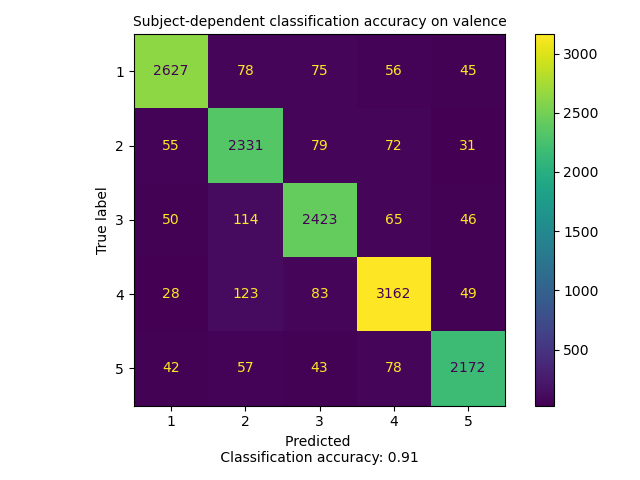
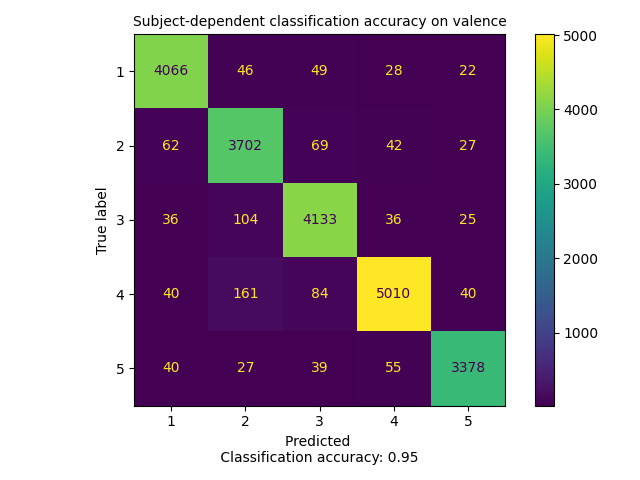
adjustments

diff --git a/preprocess/preprocess_DREAMER.py b/preprocess/preprocess_DREAMER.py
@@ -8,7 +8,7 @@ from pathlib import Path
 
 
 class DREAMERDataset(Dataset):
-    def __init__(self, path, emotion, subjects=None, sessions=None, samples=128, start=1, lowcut=0.3, highcut=None, order=3, save=False):
+    def __init__(self, path, emotion, subjects=None, sessions=None, samples=128, start=1, lowcut=0.3, highcut=None, order=3, type="butter", save=False):
         data_path = path + 'data.pt'
         if os.path.exists(data_path):
             print("Loading dataset from file.")
@@ -17,10 +17,10 @@ class DREAMERDataset(Dataset):
             # self.class_weights = torch.load(path + 'class_weights.pt')
         else:
             print("Building dataset.")
-            self._build(path, emotion, subjects, sessions, samples, start, lowcut, highcut, order, save)
+            self._build(path, emotion, subjects, sessions, samples, start, lowcut, highcut, order, type, save)
 
 
-    def _build(self, path, emotion, subjects=None, sessions=None, samples=128, start=1, lowcut=0.3, highcut=None, order=3, save=False):
+    def _build(self, path, emotion, subjects=None, sessions=None, samples=128, start=1, lowcut=0.3, highcut=None, order=3, type="butter", save=False):
         wdir = Path(__file__).resolve().parent.parent.parent
         data_path = str(wdir) + '/data/DREAMER/'
         mat = scipy.io.loadmat(data_path + 'DREAMER.mat')
@@ -42,13 +42,13 @@ class DREAMERDataset(Dataset):
                         print("... and all sessions mixed.")
                     for j in range(n_videos):
                         stimuli_eeg_j = stimuli_eeg[j, 0]
+                        baseline_eeg_j = baseline_eeg[j, 0]
                         stimuli_eeg_j = mne.filter.filter_data(stimuli_eeg_j.T, eeg_sr, lowcut, highcut, 
                                             method='iir', 
-                                            iir_params=dict(order=order, ftype='butterworth'), verbose=False).T
-                        baseline_eeg_j = baseline_eeg[j, 0]
+                                            iir_params=dict(order=order, rp=0.1, rs=60, ftype=type), verbose=False).T
                         baseline_eeg_j = mne.filter.filter_data(baseline_eeg_j.T, eeg_sr, lowcut, highcut, 
                                             method='iir', 
-                                            iir_params=dict(order=order, ftype='butterworth'), verbose=False).T
+                                            iir_params=dict(order=order, rp=0.1, rs=60, ftype=type), verbose=False).T
                         stimuli_eeg_j -= np.mean(baseline_eeg_j, axis=0)
                         stimuli_eeg_j /= np.std(baseline_eeg_j, axis=0)
                         l = stimuli_eeg_j.shape[0]
@@ -67,14 +67,14 @@ class DREAMERDataset(Dataset):
                     if i == 0:
                         print("... and session(s):", sessions)
                     for sess in sessions:
-                        stimuli_eeg_j = stimuli_eeg[sess, 0]
+                        stimuli_eeg_j = stimuli_eeg[j, 0]
+                        baseline_eeg_j = baseline_eeg[j, 0]
                         stimuli_eeg_j = mne.filter.filter_data(stimuli_eeg_j.T, eeg_sr, lowcut, highcut, 
                                             method='iir', 
-                                            iir_params=dict(order=order, ftype='butterworth'), verbose=False).T
-                        baseline_eeg_j = baseline_eeg[sess, 0]
+                                            iir_params=dict(order=order, rp=0.1, rs=60, ftype=type), verbose=False).T
                         baseline_eeg_j = mne.filter.filter_data(baseline_eeg_j.T, eeg_sr, lowcut, highcut, 
                                             method='iir', 
-                                            iir_params=dict(order=order, ftype='butterworth'), verbose=False).T
+                                            iir_params=dict(order=order, rp=0.1, rs=60, ftype=type), verbose=False).T
                         stimuli_eeg_j -= np.mean(baseline_eeg_j, axis=0)
                         stimuli_eeg_j /= np.std(baseline_eeg_j, axis=0)
                         l = stimuli_eeg_j.shape[0]
@@ -99,13 +99,13 @@ class DREAMERDataset(Dataset):
                         print("... and all sessions mixed.")
                     for j in range(n_videos):
                         stimuli_eeg_j = stimuli_eeg[j, 0]
+                        baseline_eeg_j = baseline_eeg[j, 0]
                         stimuli_eeg_j = mne.filter.filter_data(stimuli_eeg_j.T, eeg_sr, lowcut, highcut, 
                                             method='iir', 
-                                            iir_params=dict(order=order, ftype='butterworth'), verbose=False).T
-                        baseline_eeg_j = baseline_eeg[j, 0]
+                                            iir_params=dict(order=order, rp=0.1, rs=60, ftype=type), verbose=False).T
                         baseline_eeg_j = mne.filter.filter_data(baseline_eeg_j.T, eeg_sr, lowcut, highcut, 
                                             method='iir', 
-                                            iir_params=dict(order=order, ftype='butterworth'), verbose=False).T
+                                            iir_params=dict(order=order, rp=0.1, rs=60, ftype=type), verbose=False).T
                         stimuli_eeg_j -= np.mean(baseline_eeg_j, axis=0)
                         stimuli_eeg_j /= np.std(baseline_eeg_j, axis=0)
                         l = stimuli_eeg_j.shape[0]
@@ -124,14 +124,14 @@ class DREAMERDataset(Dataset):
                     if subject == subjects[0]:
                         print("... and session(s):", sessions)
                     for sess in sessions:
-                        stimuli_eeg_j = stimuli_eeg[sess, 0]
+                        stimuli_eeg_j = stimuli_eeg[j, 0]
+                        baseline_eeg_j = baseline_eeg[j, 0]
                         stimuli_eeg_j = mne.filter.filter_data(stimuli_eeg_j.T, eeg_sr, lowcut, highcut, 
                                             method='iir', 
-                                            iir_params=dict(order=order, ftype='butterworth'), verbose=False).T
-                        baseline_eeg_j = baseline_eeg[sess, 0]
+                                            iir_params=dict(order=order, rp=0.1, rs=60, ftype=type), verbose=False).T
                         baseline_eeg_j = mne.filter.filter_data(baseline_eeg_j.T, eeg_sr, lowcut, highcut, 
                                             method='iir', 
-                                            iir_params=dict(order=order, ftype='butterworth'), verbose=False).T
+                                            iir_params=dict(order=order, rp=0.1, rs=60, ftype=type), verbose=False).T
                         stimuli_eeg_j -= np.mean(baseline_eeg_j, axis=0)
                         stimuli_eeg_j /= np.std(baseline_eeg_j, axis=0)
                         l = stimuli_eeg_j.shape[0]

diff --git a/eval_DREAMER.py b/eval_DREAMER.py
@@ -21,8 +21,9 @@ device = torch.device('cuda' if torch.cuda.is_available() else 'mps' if torch.ba
 print('Using device:', device)
 
 best_highcut = None
-best_lowcut = .3
+best_lowcut = .5
 best_order = 3
+best_type = 'butter'
 best_start = 1
 best_sample = 128
 subjects = [[i] for i in range(23)]
@@ -59,8 +60,8 @@ save = False
 np.random.seed(random_seed)
 num_s = 1
 dep_mix = True
-dep_ind = True
-independent = False
+dep_ind = False
+independent = True
 
 
 ###############################################################################
@@ -80,7 +81,7 @@ if dep_mix:
         ###############################################################################
 
         dataset = DREAMERDataset(sets_path+info_str, selected_emotion, subjects=subject, sessions=None, samples=best_sample, start=best_start,
-                                lowcut=best_lowcut, highcut=best_highcut, order=best_order, save=save)
+                                lowcut=best_lowcut, highcut=best_highcut, order=best_order, type=best_type, save=save)
         dataset_size = len(dataset)
 
         indices = list(range(dataset_size))
@@ -151,9 +152,9 @@ if dep_ind:
             info_str_train = 'DREAMER_' + selected_emotion + f'_subject({subject})_session({sess_train})_filtered({best_lowcut}, {best_highcut}, {best_order})_samples({best_sample})_start({best_start})_'
             sess_test = sess
             dataset_train = DREAMERDataset(sets_path+info_str_train, selected_emotion, subjects=subject, sessions=sess_train, samples=best_sample, start=best_start,
-                                    lowcut=best_lowcut, highcut=best_highcut, order=best_order, save=save)
+                                    lowcut=best_lowcut, highcut=best_highcut, order=best_order, type=best_type, save=save)
             dataset_test = DREAMERDataset(sets_path+info_str_test, selected_emotion, subjects=subject, sessions=sess_test, samples=best_sample, start=best_start,
-                                    lowcut=best_lowcut, highcut=best_highcut, order=best_order, save=save)
+                                    lowcut=best_lowcut, highcut=best_highcut, order=best_order, type=best_type, save=save)
             dataset_train_size = len(dataset_train)
             dataset_test_size = len(dataset_test)
 
@@ -224,9 +225,9 @@ if independent:
         info_str_train = 'DREAMER_' + selected_emotion + f'_subject({subjects_train})_filtered({best_lowcut}, {best_highcut}, {best_order})_samples({best_sample})_start({best_start})_'
         subjects_test = subject
         dataset_train = DREAMERDataset(sets_path+info_str_train, selected_emotion, subjects=subjects_train, samples=best_sample, start=best_start,
-                                lowcut=best_lowcut, highcut=best_highcut, order=best_order)
+                                lowcut=best_lowcut, highcut=best_highcut, order=best_order, type=best_type, save=save)
         dataset_test = DREAMERDataset(sets_path+info_str_test, selected_emotion, subjects=subjects_test, samples=best_sample, start=best_start,
-                                lowcut=best_lowcut, highcut=best_highcut, order=best_order)
+                                lowcut=best_lowcut, highcut=best_highcut, order=best_order, type=best_type, save=save)
         dataset_train_size = len(dataset_train)
         dataset_test_size = len(dataset_test)
 

diff --git a/DREAMER.py b/DREAMER.py
@@ -33,8 +33,9 @@ else:
 properties = torch.cuda.get_device_properties(device)
 
 best_highcut = None
-best_lowcut = .3
+best_lowcut = .5
 best_order = 3
+best_type = 'butter'
 best_start = 1
 best_sample = 128
 # subjects = [i for i in range(23)]
@@ -65,7 +66,7 @@ cur_dir = Path(__file__).resolve().parent
 figs_path = str(cur_dir) + '/figs/'
 sets_path = str(cur_dir) + '/sets/'
 models_path = str(cur_dir) + '/tmp/'
-save = True
+save = False
 
 np.random.seed(random_seed)
 num_s = 1
@@ -87,7 +88,8 @@ search_space = {
     "D": best_D, # tune.grid_search([1, 2, 4, 8, 16]),
     "F2": best_F2, # tune.grid_search([4, 16, 64, 256, 1024]),
     "kernLength": best_kernLength, # tune.grid_search([16, 32, 64, 128]),
-    "dropout": best_dropout # tune.grid_search([.1, .3, .5])
+    "dropout": best_dropout, # tune.grid_search([.1, .3, .5])
+    "type": best_type, # tune.grid_search(["butter", "cheby1", "cheby2", "ellip", "bessel"])
 }
 
 def train_DREAMER(config):
@@ -99,7 +101,7 @@ def train_DREAMER(config):
       ###############################################################################
 
       dataset = DREAMERDataset(sets_path+info_str, selected_emotion, subjects=subjects, samples=config["sample"], start=config["start"],
-                              lowcut=config["lowcut"], highcut=config["highcut"], order=config["order"], save=save)
+                              lowcut=config["lowcut"], highcut=config["highcut"], order=config["order"], type=config["type"], save=save)
       dataset_size = len(dataset)
 
       indices = list(range(dataset_size))
@@ -149,7 +151,7 @@ def train_DREAMER(config):
 
 n_cpu = os.cpu_count()
 n_gpu = torch.cuda.device_count()
-accelerator = properties["name"].split()[1]
+accelerator = properties.name.split()[1]
 n_parallel = 4
 ray.init(num_cpus=n_cpu, num_gpus=n_gpu)
 tuner = tune.Tuner(
